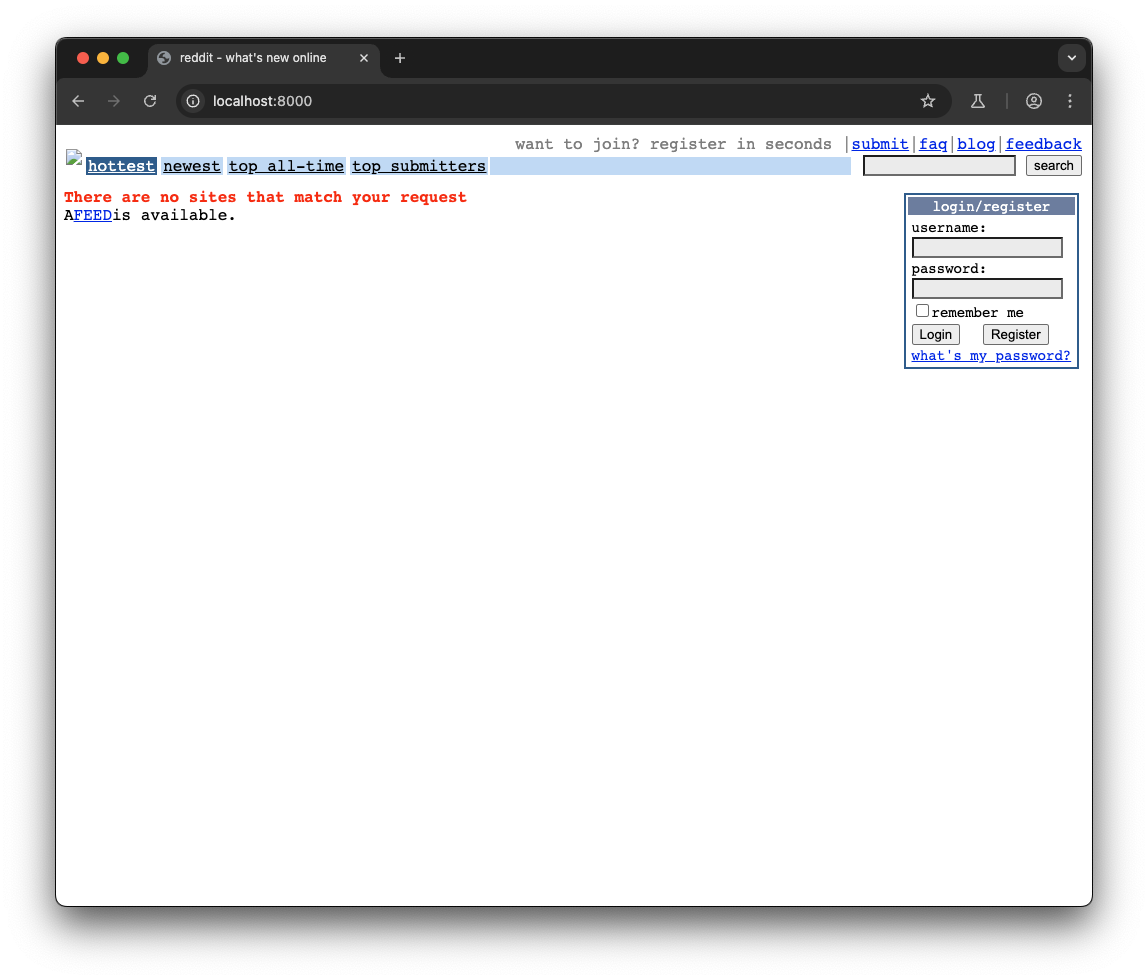
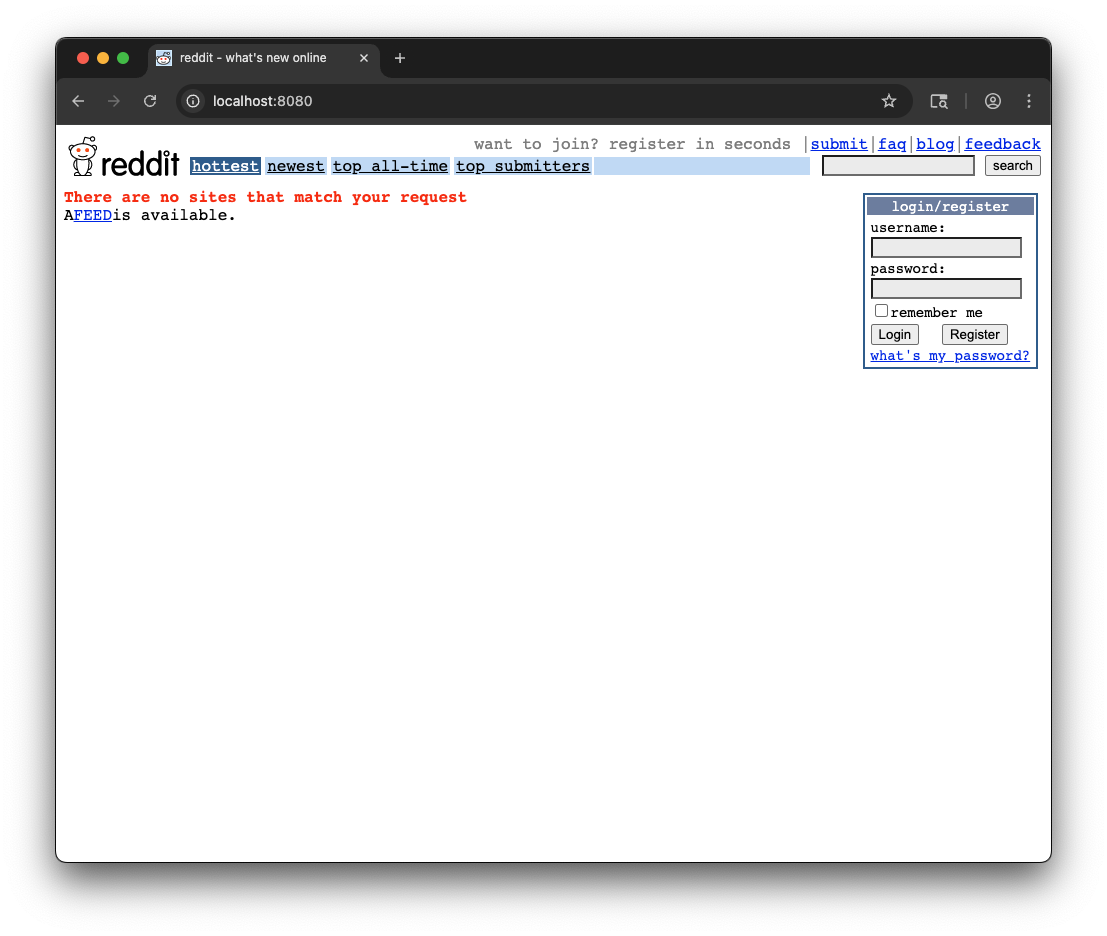
update README

Changed region(s): [[0.0307, 0.031, 0.9521, 0.4028], [0.0307, 0.8985, 0.9521, 0.9295]]

diff --git a/README.md b/README.md
@@ -57,7 +57,7 @@ start up reddit application
 ```
 
 
-open http://localhost:8000/browse
+open http://localhost:8080/
 
 for shutting down
 
